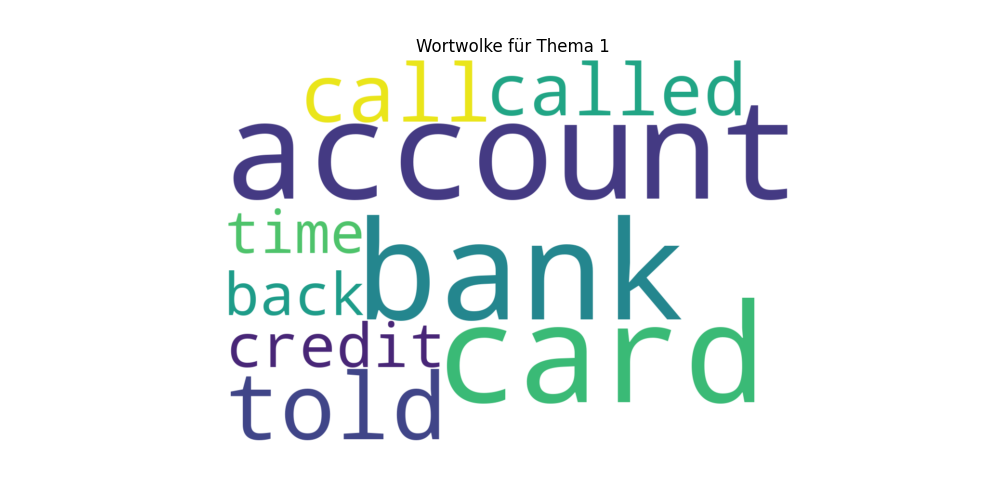
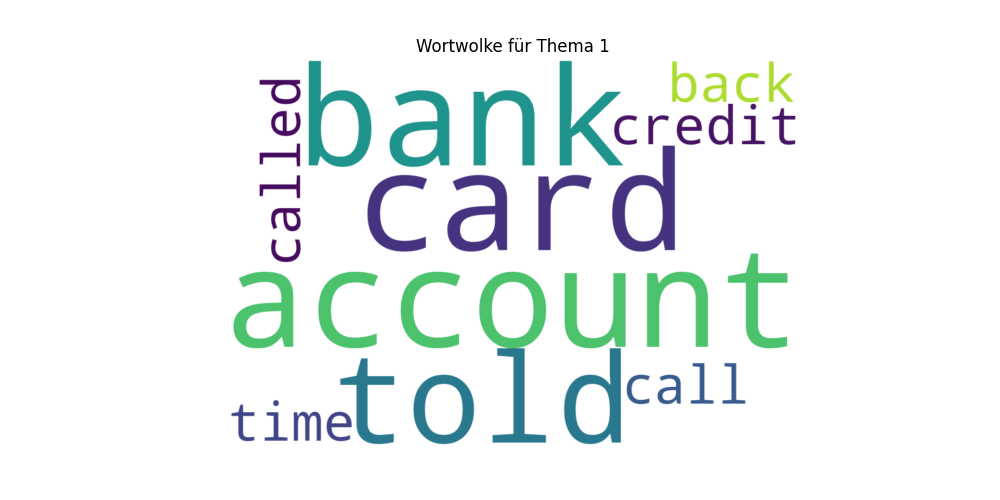
added Word2Vec function and wordcloud for Word2Vec

Changed region(s): [[0.217, 0.12, 0.806, 0.9]]

diff --git a/src/main.py b/src/main.py
@@ -3,11 +3,13 @@ import nltk
 from nltk.corpus import stopwords
 import re
 from gensim import corpora
-from gensim.models import CoherenceModel, LdaMulticore
+from gensim.models import CoherenceModel, LdaMulticore, Word2Vec
 import time
 import os
 import matplotlib.pyplot as plt
 from wordcloud import WordCloud
+import numpy as np
+from sklearn.cluster import KMeans
 
 def main():
     # Datensatz
@@ -131,6 +133,44 @@ def main():
     # Funktion Wortwolken aufrufen
     save_word_cloud_gensim(final_lda_model, optimal_k)
 
+    # Word2Vec-Modell trainieren
+    print("Training des Word2Vec-Modells")
+    word2vec_model = Word2Vec(sentences=cleaned_texts, vector_size=100, window=5, min_count=2, workers=workers)
+    print("Word2Vec-Modell trainiert.")
+    
+    # Funktion zur Berechnung von Dokumentvektoren
+    def document_vector(model, doc):
+        doc = [word for word in doc if word in model.wv]
+        if len(doc) == 0:
+            return np.zeros(model.vector_size)
+        return np.mean(model.wv[doc], axis=0)
+    
+    # Berechnung von Dokumentvektoren
+    print("Berechnung von Dokumentenvektoren")
+    word2vec_vectors = np.array([document_vector(word2vec_model, text) for text in cleaned_texts])
+    
+    # Dokumente mithilfe von KMeans clustern
+    num_clusters = 5  # Wert kann adaptiert weden
+    print(f"Clustering von Dokumenten in {num_clusters} Clustern mit KMeans.")
+    kmeans = KMeans(n_clusters=num_clusters, random_state=42)
+    df['word2vec_cluster'] = kmeans.fit_predict(word2vec_vectors)
+    print("Clustering abgeschlossen.")
+    
+    # Funktion zum generieren von Wortwolken (Word2Vec-Cluster)
+    for cluster in range(num_clusters):
+        cluster_texts = ' '.join(df[df['word2vec_cluster'] == cluster]['cleaned_narrative'])
+        wordcloud = WordCloud(width=1200, height=800, background_color="white").generate(cluster_texts)
+        plt.figure(figsize=(10, 5))
+        plt.imshow(wordcloud, interpolation='bilinear')
+        plt.axis("off")
+        plt.title(f"Wortwolke für Word2Vec-Cluster {cluster}")
+        output_file = os.path.join(wordcloud_output_path, f"word2vec_cluster_{cluster}.png")
+        plt.savefig(output_file)
+        plt.close()
+    
+    print("Wortwolken für Word2Vec-Cluster gespeichert.")
+    print("Die Wortwolken sind im Ordner output/wordclouds einsehbar.")
+    
 
 if __name__ == '__main__':
     main()
